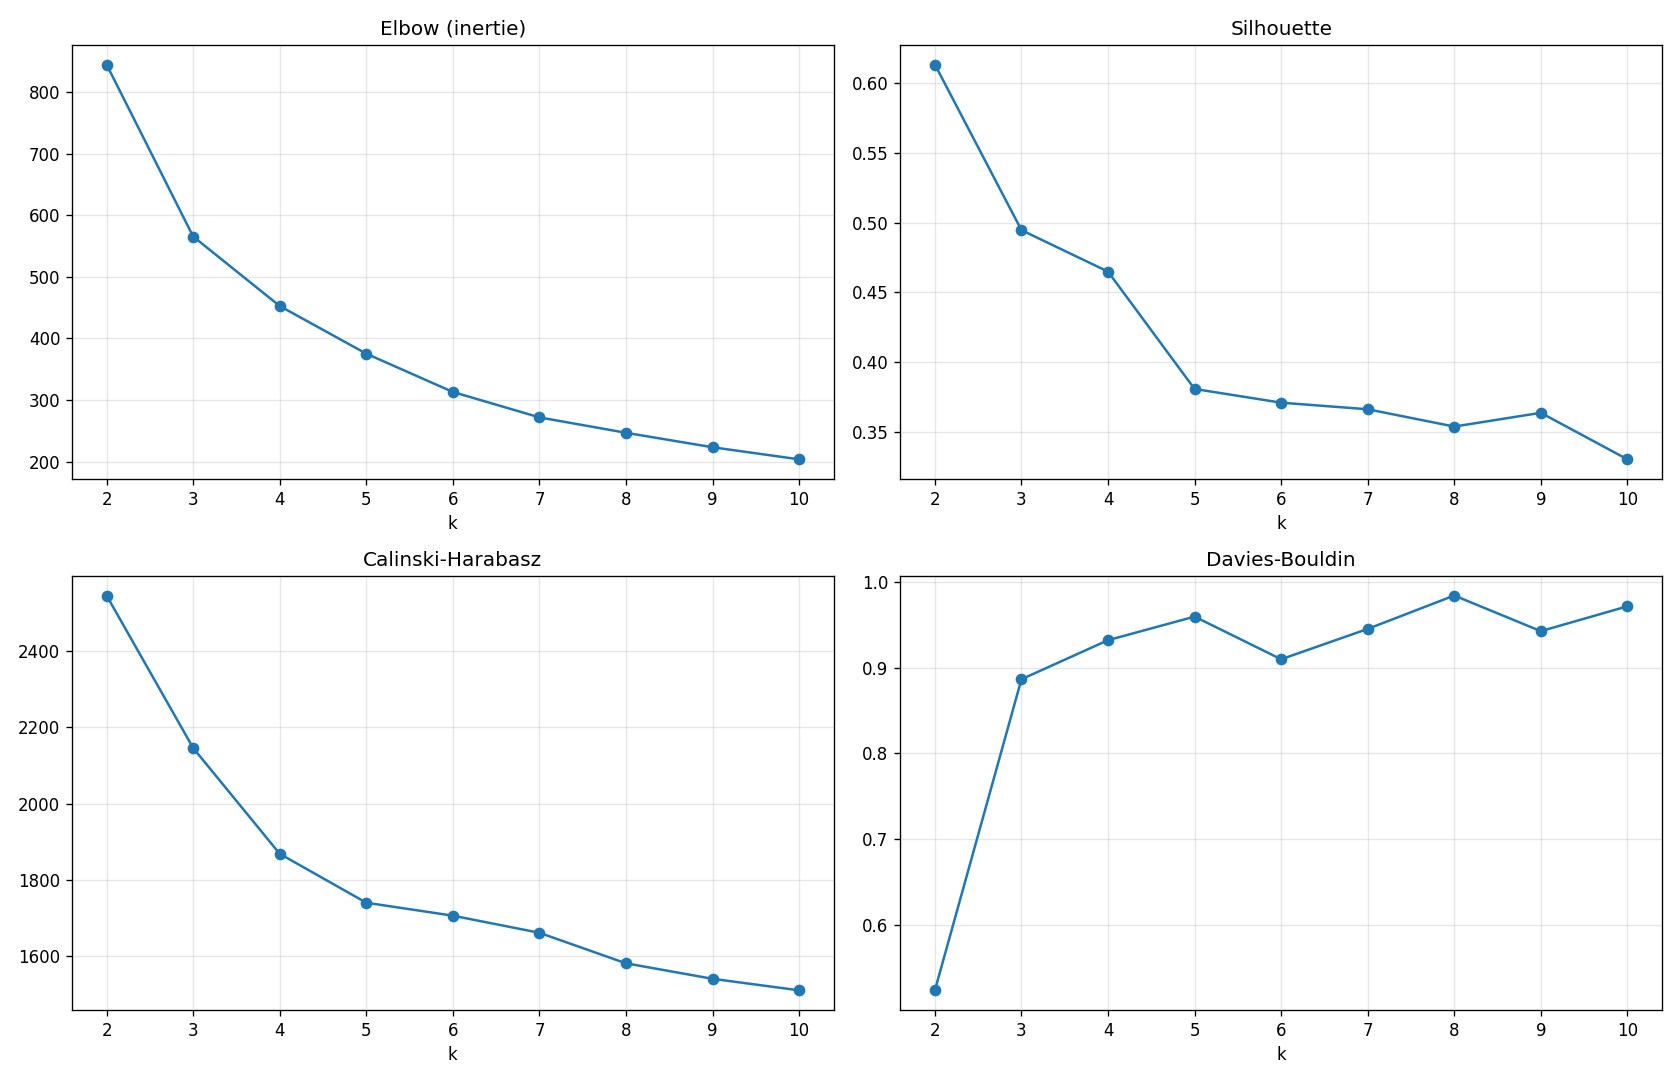
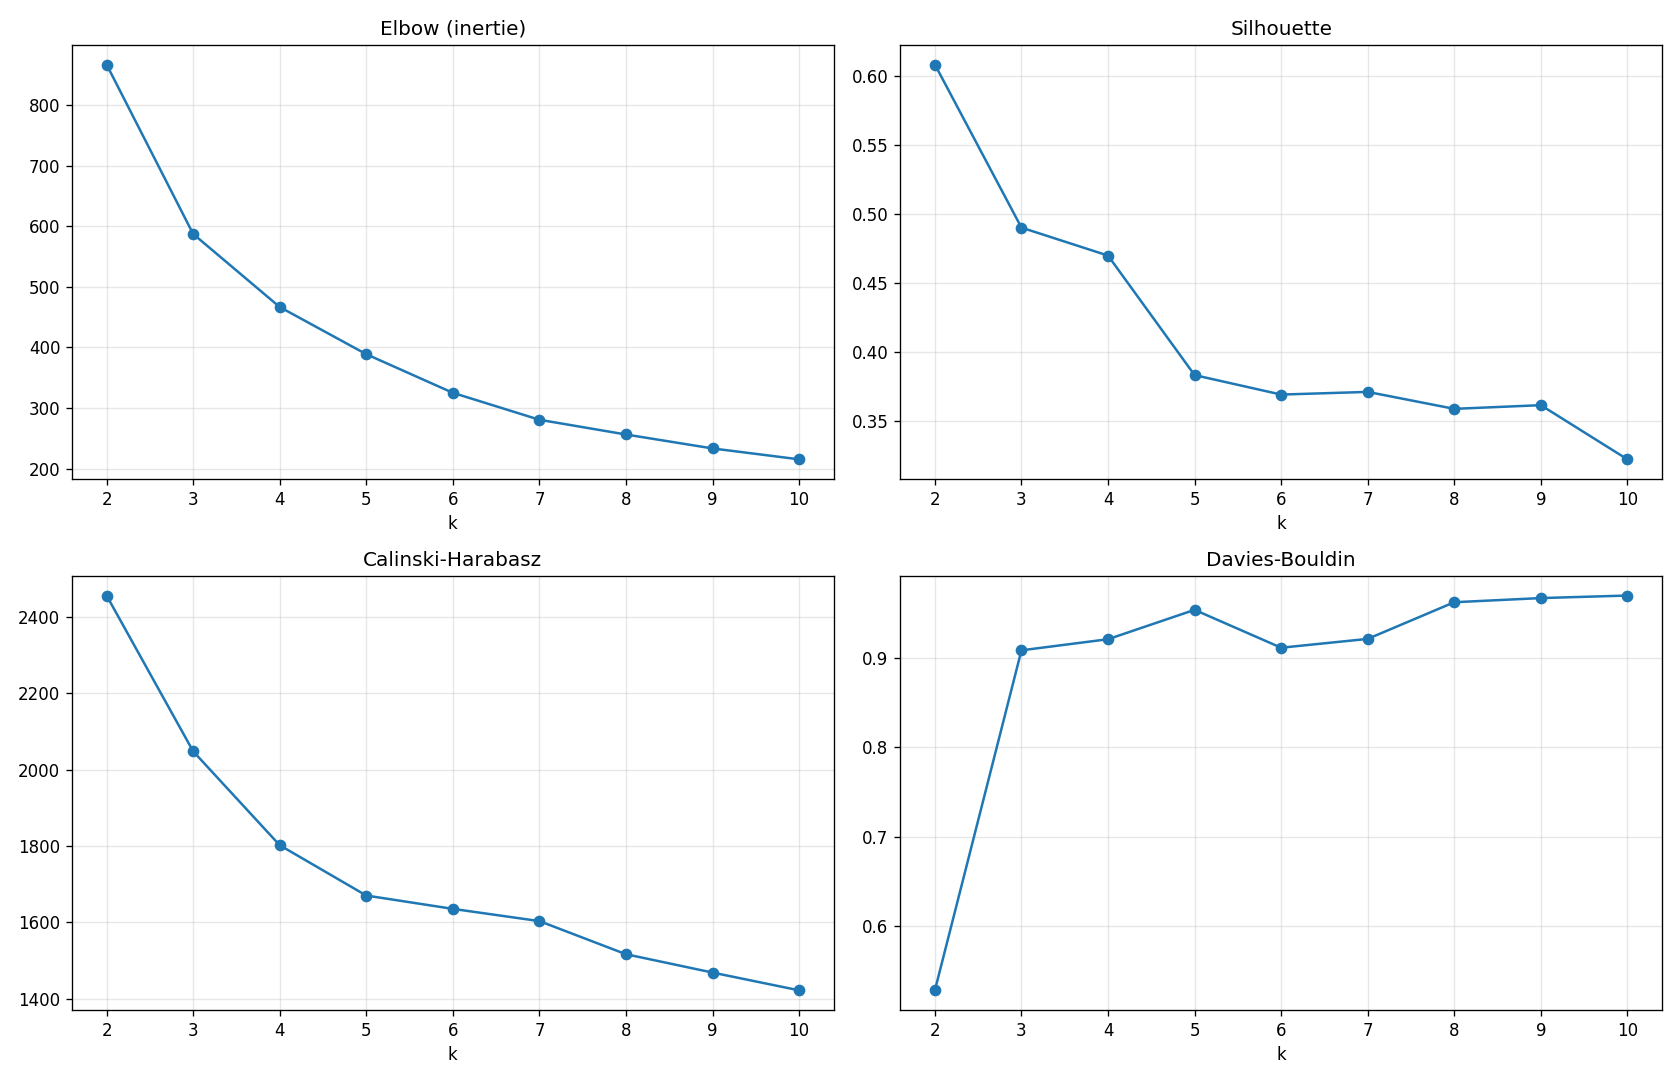
Chemin

diff --git a/segmentation/segClient.py b/segmentation/segClient.py
@@ -18,6 +18,11 @@ from sklearn.metrics import (
 from pathlib import Path
 import warnings
 
+import sys
+from pathlib import Path
+
+ROOT_DIR = Path(__file__).resolve().parents[1]
+sys.path.insert(0, str(ROOT_DIR / "src"))
 from churn.features import build_feature_set, compute_rfm
 
 warnings.filterwarnings("ignore")
